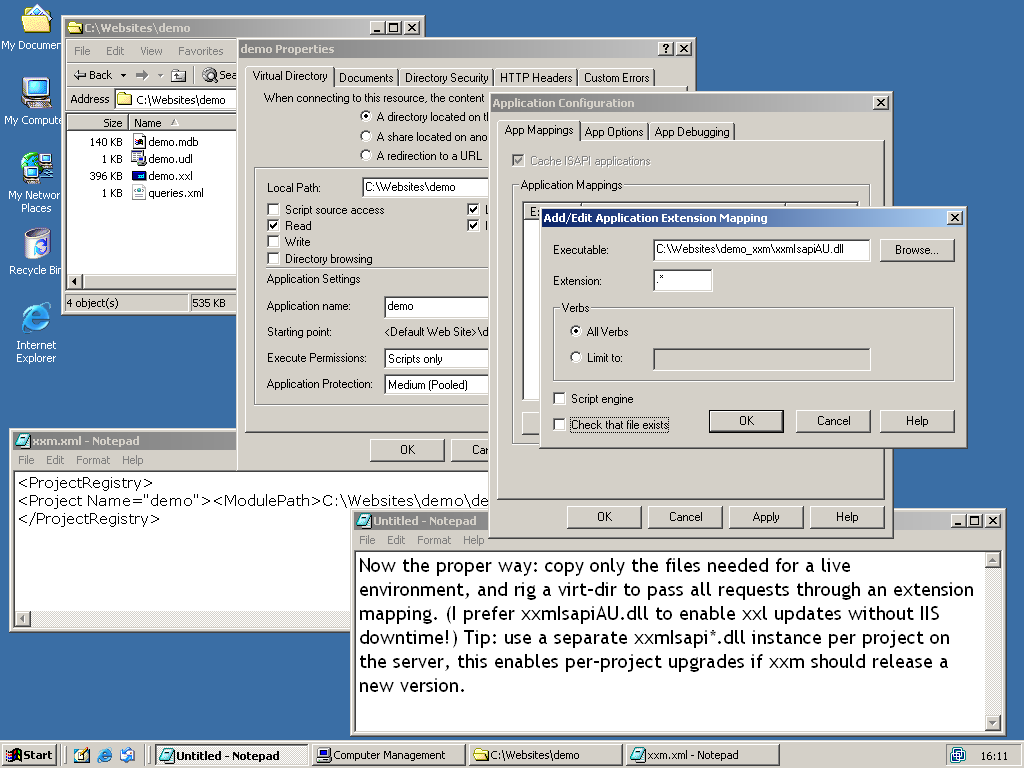
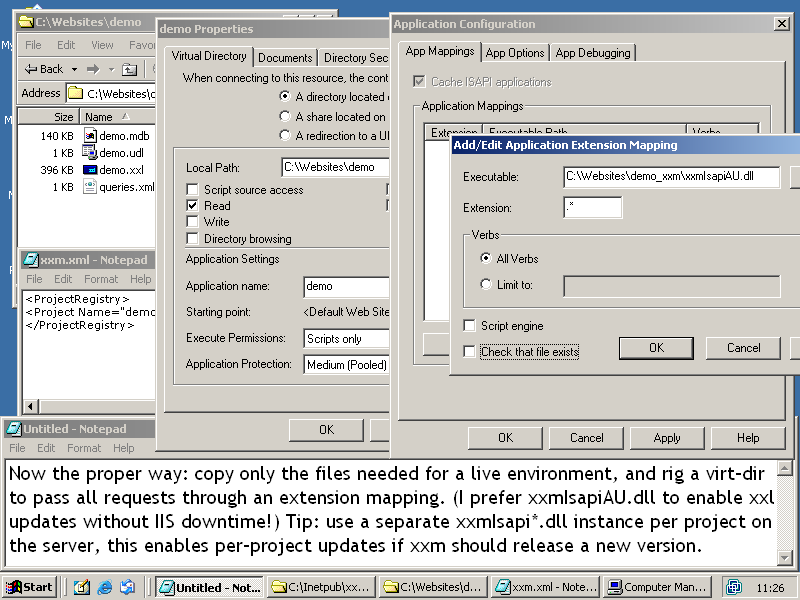
revised tutorial: 800x600, added xxmHttp

diff --git a/docs/tutorial01/index.html b/docs/tutorial01/index.html
@@ -1,17 +1,18 @@
-<html>
-<head>
-<title>xxm tutorial quick guide screenshots</title>
+<html> 
+<head> 
+<title>xxm tutorial quick guide screenshots</title> 
 <style type="text/css"><!--
-BODY{font-family:Calibri,Verdana,sans-serif;font-size:18pt;overflow:hidden;}
+BODY{font-family:Calibri,Verdana,sans-serif;font-size:16pt;overflow:hidden;}
 P{text-align:center;margin:0pt;}
+P#tutnav{font-size:12pt;}
 IMG#tutsnap{border:2px solid #999999;}
 A{text-decoration:none;}
-//--></style>
-<body onresize="doresize();">
-<p id="tutnav"><i>loading...</i></p>
-<p><img src="snap00.png" id="tutsnap" width="1024" height="768" onclick="nav(csnap+1);" /><img src="snap01.png" id="tutpre" width="0" height="0" /></p>
-<p id="tuttxt"></p>
-<script language="javascript" src="snaps.js"></script>
+//--></style> 
+<body onresize="doresize();"> 
+<p id="tutnav"><i>loading...</i></p> 
+<p><img src="snap00.png" id="tutsnap" width="800" height="600" onclick="nav(csnap+1);" /><img src="snap01.png" id="tutpre" width="0" height="0" /></p> 
+<p id="tuttxt"></p> 
+<script language="javascript" src="snaps.js"></script> 
 <script language="javascript"><!--
 var tutnav=document.getElementById("tutnav");
 var tutsnap=document.getElementById("tutsnap");
@@ -22,34 +23,37 @@ function doresize()
 {
 	var x=tutnav.clientWidth;
 	if(x==0)x=tutnav.offsetWidth;
-	if(x<1024)
+	if(x<800)
 	{
 		tutsnap.width=x;
 		tutsnap.height=x*0.75;
 	}
-	else if(tutsnap.width!=1024)
+	else if(tutsnap.width!=800)
 	{
-		tutsnap.width=1024;
-		tutsnap.height=768;
+		tutsnap.width=800;
+		tutsnap.height=600;
 	}
 }
 function buildnav()
 {
 	var i;
-	var x=(csnap==0)?'<s>prev</s>':('<a href="javascript:nav('+(csnap-1)+');">prev</a>');
+	var x=(csnap==0)?'<s>[prev]</s>':('<a href="javascript:nav('+(csnap-1)+');">[prev]</a>');
 	for(i=0;i<snaps.length;i++) x+=" "+((csnap==i)?('<b>['+i+']</b>'):('<a href="javascript:nav('+i+');">['+i+']</a>'));
-	tutnav.innerHTML=x+' '+((csnap==snaps.length-1)?'<s>next</s>':('<a href="javascript:nav('+(csnap+1)+');">next</a>'));
+	tutnav.innerHTML='<a href="..">[back]</a> '+x+' '+((csnap==snaps.length-1)?'<s>[next]</s>':('<a href="javascript:nav('+(csnap+1)+');">[next]</a>'));
 }
 function nav(x)
 {
-	if(x<snaps.length)csnap=x;
-	tutsnap.src="snap"+new String(100+x).substr(1,2)+".png";
-	tuttxt.innerHTML=snaps[x];
-	buildnav();
-	if(x+1<snaps.length)tutpre.src="snap"+new String(101+x).substr(1,2)+".png";
+	if(x<snaps.length)
+	{
+		csnap=x;
+		tutsnap.src="snap"+new String(100+x).substr(1,2)+".png";
+		tuttxt.innerHTML=snaps[x];
+		buildnav();
+		if(x+1<snaps.length)tutpre.src="snap"+new String(101+x).substr(1,2)+".png";
+	}
 }
 doresize();
 buildnav();
 tuttxt.innerHTML=snaps[csnap];
-//--></script>
+//--></script> 
 </body>

diff --git a/docs/tutorial01/snaps.js b/docs/tutorial01/snaps.js
@@ -1,5 +1,5 @@
 var snaps=[
-"xxm Tutorial 1<br />Quick Guide with Screenshots<br />How to install xxmLocal and xxmIsapi<br /><span style='font-size:10pt;'>Use navigation on top or click image to proceed.</span>",
+"xxm Tutorial 1<br />Quick guide with screenshots<br />How to install xxmLocal,<br />xxmIsapi and xxmHttp<br /><span style='font-size:10pt;'>Use navigation on top or click image to proceed.</span>",
 "This is a default Windows install, with IIS. Delphi 7 is installed also.",
 "Download xxm binaries...<br /><span style='font-size:10pt'>see <a href='http://xxm.sourceforge.net/download.html' target='_blank'>xxm/download</a></span>",
 "Create an appropriate directory and extract",
@@ -21,4 +21,6 @@ var snaps=[
 "Let's go live with these! First a quick and dirty method: call over xxmIsapiEx.dll as an executable<br /><span style='font-size:10pt;'>enter \"localhost/Scripts/xxmIsapiEx.dll\"</span>",
 "It uses a project registry in a local XML file<br /><span style='font-size:9pt;white-space:nowrap;'>&lt;ProjectRegistry&gt;<br />&lt;Project Name=\"hello\"&gt;&lt;ModulePath&gt;C:\\InetPub\\xxm\\MyFirstXxmProject\\MyFirstXxmProject.xxl&lt;/ModulePath&gt;&lt;/Project&gt;<br />&lt;Project Name=\"demo\"&gt;&lt;ModulePath&gt;C:\\InetPub\\xxm\\demo\\03 Data\\demo.xxl&lt;/ModulePath&gt;&lt;/Project&gt;<br />&lt;/ProjectRegistry&gt;</span>",
 "Now the proper way: copy only the files needed for a live environment, and rig a virt-dir <span style='font-size:10pt'>or website</span> to pass all requests through an extension mapping. (I prefer xxmIsapiAU.dll to enable xxl updates without IIS downtime!) Tip: use a separate xxmIsapi*.dll instance <span style='font-size:10pt'>with its own xxm.xml</span> per project on the server, this enables per-project upgrades if xxm should release a new version.",
-"Optionally, set Isolation High to have a separate process to control identity and permissions"];
+"Optionally, set Isolation High to have a separate process to control identity and permissions",
+"If you don't need all the extra's IIS provides, use the stand-alone server, as a user-controlled process...",
+"... or as an NT-service"];
